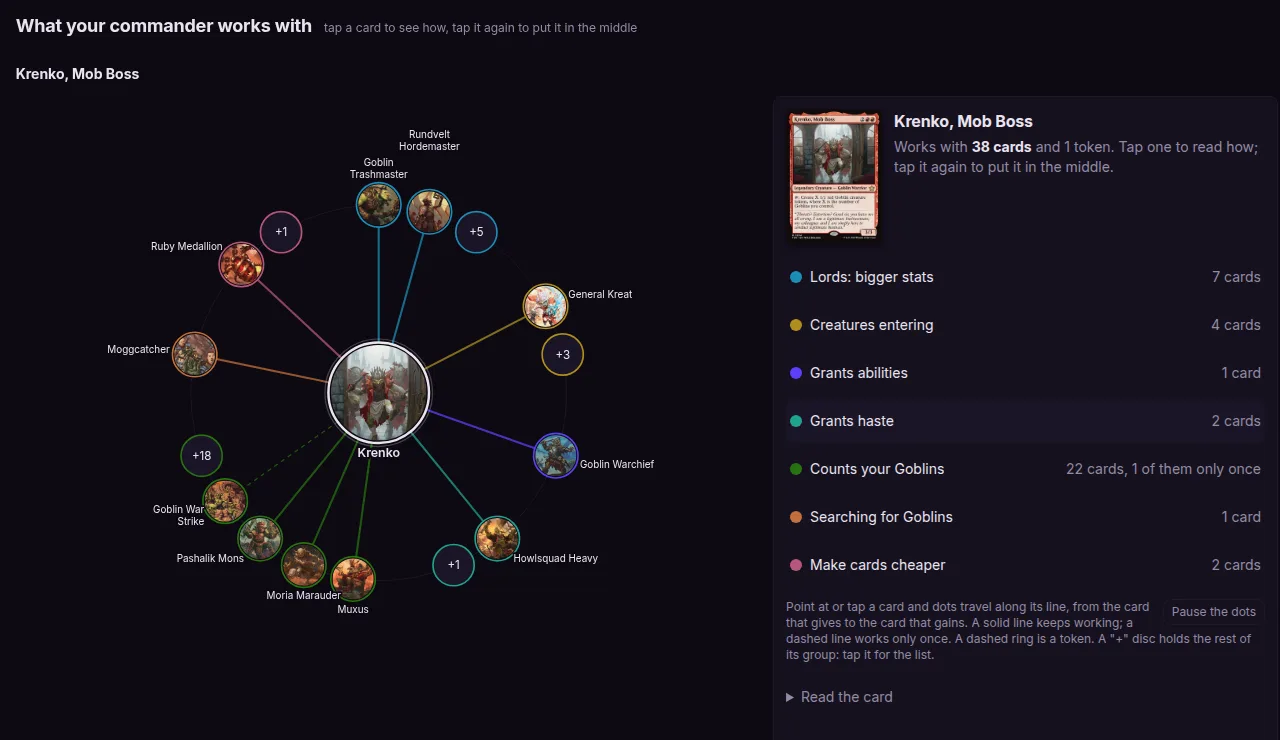
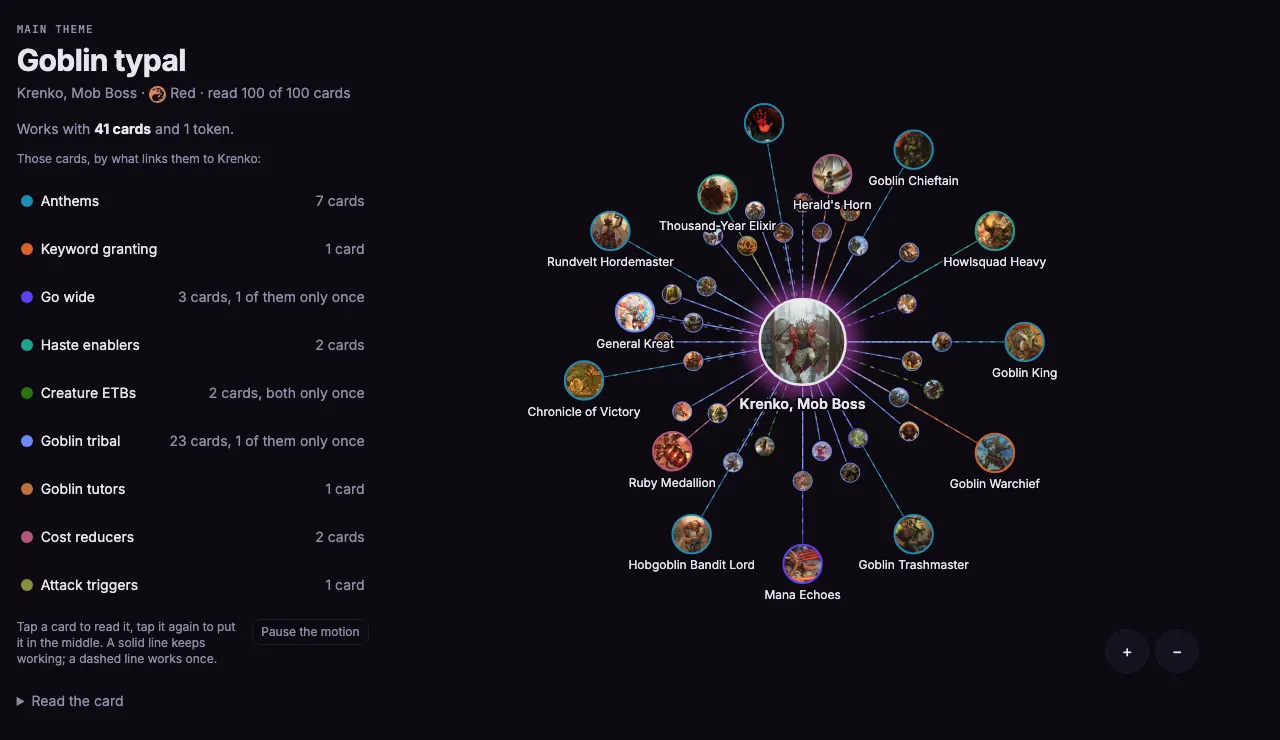
Presentation: current screenshots and demo, the pages beyond the report, a flow diagram
The README and /how-it-works showed the report as it was before the game plan was folded into rows
and the manabase into five answers, and nothing of the commander, card or precon pages.

- The capture script was broken by those two changes (the game plan wait timed out; the mana chart
  now sits behind "Show the numbers", so its frame caught the sticky header instead). Fixed, and
  all four report frames regenerated: the game plan opens its biggest theme, the mana frame is the
  chapter's five answers.
- Two new frames from the same script: Krenko's commander page and the Multiverse Reforged precon
  page. /how-it-works gets a "Beyond your deck" section for them; the README a "No deck handy?"
  section with both.
- demo.gif re-recorded (its "Put Goblin Warchief in the middle" button no longer exists; a tap now
  opens the card drawer, which the demo shows instead). A second GIF, browse.gif, from the same
  script with `--story browse`: the precon index, one precon's swaps, the site search, a commander
  page. 2.7 MB and 3.1 MB, both under the test's 5 MB budget, which now covers both.
- /how-it-works: report frames one per row at their capture width (65rem = 1040px) instead of three
  to a row, where their text was unreadable; the pipeline draws arrows between its six steps where
  all six fit in one row (64rem and up), keeping the numbered grid below that, which was the
  recorded reason for numbers over chevrons.
[…]

diff --git a/packages/web/client/how-it-works/index.html b/packages/web/client/how-it-works/index.html
@@ -208,28 +208,47 @@
            wide. A change that alters one of these frames regenerates them in the same PR
            (CONTRIBUTING.md, "Screenshots"); `screenshots.test.ts` holds the sizes below to the files.
            Relative `src` so Vite content-hashes them into `/assets/`, where `_headers` already
-           caches for a year; `README.md` shows the same four files, so there is one copy of each.
+           caches for a year; `README.md` shows the same files, so there is one copy of each.
            Width and height are set so the page does not shift as they arrive. -->
       <div class="shots">
-        <figure class="shot shot-hero">
+        <figure class="shot">
           <img src="./shot-orbit.webp" width="1280" height="740" loading="lazy" decoding="async"
                alt="What Krenko, Mob Boss works with: Krenko in the middle and the Goblins around him, grouped by what each link is, beside a list of the groups." />
           <figcaption><strong>What your commander works with.</strong> Every card around it, grouped by what the link is. Tap one to see how, or put any card in the middle.</figcaption>
         </figure>
         <figure class="shot">
-          <img src="./shot-pairs.webp" width="1040" height="640" loading="lazy" decoding="async"
-               alt="The game plan chapter: what the deck does, led by its biggest theme, Lords giving bigger stats, with its seven key cards and the Goblins that set them off." />
-          <figcaption><strong>Your game plan.</strong> What your deck does, each theme led by the cards that make it work.</figcaption>
+          <img src="./shot-pairs.webp" width="1040" height="356" loading="lazy" decoding="async"
+               alt="The game plan chapter: what the deck does, one row per theme. Anthems, 32 cards, is open on its key cards, one example link, and the themes made of the same cards." />
+          <figcaption><strong>Your game plan.</strong> What your deck does, one row per theme, each opening on the cards that make it work.</figcaption>
         </figure>
         <figure class="shot">
           <img src="./shot-improve.webp" width="1040" height="640" loading="lazy" decoding="async"
-               alt="The suggestions chapter: short on card draw, 9 against a target of 13, with four cards that fit shown as card images, each saying what it counts as and how it works with the deck." />
+               alt="The suggestions chapter: you will run out of cards before you run out of turns, 10 against a target of 13, with three cards that fit shown as card images, each saying what it counts as and how it works with the deck." />
           <figcaption><strong>What to fix first.</strong> Gaps stated in cards, biggest payoff at the top, with the cards that fit.</figcaption>
         </figure>
         <figure class="shot">
-          <img src="./shot-mana.webp" width="640" height="394" loading="lazy" decoding="async"
-               alt="The manabase chart: mana by turn in a typical game, and how many cards first become castable on each turn." />
-          <figcaption><strong>Can you cast it.</strong> Mana by turn, and the turn most of your cards become castable.</figcaption>
+          <img src="./shot-mana.webp" width="1296" height="240" loading="lazy" decoding="async"
+               alt="The manabase chapter's five answers: lands, the weakest colour, opening hands, mana by turn 6, and the hardest card to cast on curve." />
+          <figcaption><strong>Can you cast it.</strong> Five answers first: lands, colours, opening hands, mana by turn, and the card you will struggle to cast. The numbers behind them fold away.</figcaption>
+        </figure>
+      </div>
+
+      <h2>Beyond your deck</h2>
+      <p>
+        No deck handy? Every commander and every card has a page that shows what works with it, ranked
+        over every card a deck could legally hold. Every Commander precon has one too: its theme, how
+        well its cards work together, and the swaps that make them work together more.
+      </p>
+      <div class="shots shots-pair">
+        <figure class="shot">
+          <img src="./shot-commander.webp" width="1408" height="1290" loading="lazy" decoding="async"
+               alt="The commander page for Krenko, Mob Boss: the card, how the engine reads it, what it cares about, and a map of the cards that work well with it." />
+          <figcaption><strong>A page per commander.</strong> What it cares about, and the cards that work with it, on a map and in a list. <a href="https://edhseer.cards/commanders/krenko-mob-boss">Krenko's</a>.</figcaption>
+        </figure>
+        <figure class="shot">
+          <img src="./shot-precon.webp" width="1408" height="900" loading="lazy" decoding="async"
+               alt="The precon page for Multiverse Reforged: its theme, synergy and bracket, a map of what Jace works with, and the swaps that make the deck work together, each card out beside the card in." />
+          <figcaption><strong>A page per precon.</strong> Its theme, synergy and bracket, and the swaps that give its loosest cards a job. <a href="https://edhseer.cards/precons/">Every precon</a>.</figcaption>
         </figure>
       </div>
 

diff --git a/packages/web/client/src/index.css b/packages/web/client/src/index.css
@@ -1413,6 +1413,25 @@ a.brand:hover .brand-edh { color: var(--foreground); }
 
 .pipeline-note { font-size: 0.75rem; line-height: 1.35; color: var(--muted); }
 
+/* ONE ROW, AND THEN THE ARROWS (2026-09-28). Where all six boxes fit in a single row there is no
+   wrapped row to leave a stray mark at, which was the whole case against chevrons above -- so at
+   that width the flow is drawn as a flow, and the numbers stay for every narrower layout. The
+   chevron sits in the gap, drawn by the box on its right. */
+@media (min-width: 64rem) {
+  .pipeline { grid-template-columns: repeat(6, 1fr); gap: 1.5rem; }
+  .pipeline li + li::before {
+    content: "";
+    position: absolute;
+    left: -1.1rem;
+    top: 50%;
+    width: 0.5rem;
+    height: 0.5rem;
+    border-top: 1.5px solid var(--muted);
+    border-right: 1.5px solid var(--muted);
+    transform: translateY(-50%) rotate(45deg);
+  }
+}
+
 /* THE MONEY LINE. One step costs and the rest are free, which is the whole reason the engine can be
    corrected without buying the corpus again. */
 .pipeline-paid { border-color: var(--accent); }
@@ -1537,17 +1556,20 @@ a.brand:hover .brand-edh { color: var(--foreground); }
 }
 .hiw-try p:first-child { color: var(--foreground); }
 
-/* REAL SCREENSHOTS OF THE REPORT. The commander orbit leads full width; the three chapters sit under it in a
-   row on a wide screen and stack on a phone, where a 1440 frame at a third of 390px would be a
-   thumbnail nobody can read. */
+/* REAL SCREENSHOTS OF THE PRODUCT, ONE PER ROW. The row is 65rem, which is 1040px, the width the
+   report's chapter frames are captured at: shown whole they are read at their own size, and two to a
+   row halved them into thumbnails whose text nobody could read. `.shots-pair` is the exception --
+   the pages beyond the report, shown side by side as a preview of the look, each linking to the
+   real page. On a phone everything stacks. */
 .shots {
   display: grid;
-  grid-template-columns: repeat(3, 1fr);
-  gap: 1.25rem 1rem;
+  grid-template-columns: minmax(0, 1fr);
+  align-items: start;
+  gap: 1.75rem 1rem;
   margin-block: 1.5rem 0.5rem;
 }
+.shots-pair { grid-template-columns: repeat(2, minmax(0, 1fr)); }
 .shot { margin: 0; min-width: 0; }
-.shot-hero { grid-column: 1 / -1; }
 .shot img {
   display: block;
   width: 100%;

diff --git a/packages/web/client/src/screenshots.test.ts b/packages/web/client/src/screenshots.test.ts
@@ -7,7 +7,7 @@ const WEB = join(import.meta.dirname, "..", "..");
 
 /** THE PRODUCT SCREENSHOTS ARE REPRODUCIBLE, OR THEY FAIL HERE (docs refresh, 2026-09-25).
  *
- *  The README and /how-it-works show four frames of the real report, and the rule is that a change
+ *  The README and /how-it-works show six frames of the real product, and the rule is that a change
  *  which alters one of them re-runs `npm run screenshots -w @edh-seer/web` in the same PR
  *  (CONTRIBUTING.md, "Screenshots"). No test can see whether a frame is out of date -- that is on
  *  review, and on the PR checklist. What a test CAN hold is everything that makes re-running it a
@@ -68,13 +68,13 @@ test("each screenshot's declared size is its real size", () => {
  *  so it has to exist, come from `demo-gif.mts` like the frames do, and stay under a budget: GitHub
  *  stops rendering images past 10 MB, and a reader on a phone should not wait for most of that.
  *  The first recording was 2.8 MB at 880 px wide. */
-test("the README's demo is the scripted GIF, and under budget", () => {
-  const gif = join(WEB, "..", "..", "docs", "images", "demo.gif");
-  expect(readme).toContain('src="docs/images/demo.gif"');
+test.each(["demo.gif", "browse.gif"])("the README's %s is scripted, and under budget", (name) => {
+  const gif = join(WEB, "..", "..", "docs", "images", name);
+  expect(readme).toContain(`src="docs/images/${name}"`);
   expect(existsSync(gif)).toBe(true);
   const bytes = readFileSync(gif);
   expect(bytes.toString("ascii", 0, 6)).toBe("GIF89a");
   expect(bytes.length).toBeLessThan(5 * 1024 * 1024);
   const demo = readFileSync(join(WEB, "scripts", "demo-gif.mts"), "utf8");
-  expect(demo).toContain('"docs", "images", "demo.gif"');
+  expect(demo).toContain(`"docs", "images", "${name}"`);
 });

diff --git a/README.md b/README.md
@@ -26,7 +26,7 @@ that says why.** Free, no account, nothing stored. Paste a list, or a Moxfield o
 **[edhseer.cards](https://edhseer.cards)**.
 
 <p align="center">
-  <a href="https://edhseer.cards"><img src="docs/images/demo.gif" width="880" alt="A Krenko, Mob Boss decklist is pasted and analysed. The report scrolls to what Krenko works with: a ring of Goblins around him. Goblin Warchief is tapped, its links read, and it is put in the middle. Then the deck's themes, led by their key cards, and the suggestions."></a>
+  <a href="https://edhseer.cards"><img src="docs/images/demo.gif" width="880" alt="A Krenko, Mob Boss decklist is pasted and analysed. The report scrolls to what Krenko works with: a ring of Goblins around him. Goblin Warchief is tapped and opens in a drawer with its text and what it works with. Then the deck's biggest theme is opened on its key cards, and the suggestions."></a>
 </p>
 
 ## What you get
@@ -50,19 +50,36 @@ that says why.** Free, no account, nothing stored. Paste a list, or a Moxfield o
 - **Bracket, roles and combos.** Where the deck sits, what each card is doing, and the combos it
   already holds, from [Commander Spellbook](https://commanderspellbook.com/).
 
-| What your commander works with | What your deck does |
-|---|---|
-| ![Krenko, Mob Boss in the middle and the Goblins around him, grouped by what each link is](packages/web/client/how-it-works/shot-orbit.webp) | ![The game plan chapter: the deck's biggest theme, led by its key cards](packages/web/client/how-it-works/shot-pairs.webp) |
-| **What to fix, biggest payoff first** | **Can you cast your cards** |
-| ![The suggestions chapter: short on card draw, with four cards that fit shown as card images](packages/web/client/how-it-works/shot-improve.webp) | ![The manabase chart: mana by turn in a typical game, and how many cards become castable on each turn](packages/web/client/how-it-works/shot-mana.webp) |
+<p align="center"><img src="packages/web/client/how-it-works/shot-orbit.webp" width="880" alt="What Krenko, Mob Boss works with: Krenko in the middle and the Goblins around him, grouped by what each link is, beside a list of the groups"></p>
 
-No deck handy? Every card and every commander has a page of its own that shows what works with it:
+| What your deck does | What to fix, biggest payoff first |
+|---|---|
+| ![The game plan chapter: one row per theme, the biggest opened on its key cards](packages/web/client/how-it-works/shot-pairs.webp) | ![The suggestions chapter: short on card draw, with three cards that fit shown as card images](packages/web/client/how-it-works/shot-improve.webp) |
+
+<p align="center"><img src="packages/web/client/how-it-works/shot-mana.webp" width="880" alt="The manabase chapter's five answers: lands, the weakest colour, opening hands, mana by turn 6, and the hardest card to cast on curve"></p>
+
+### No deck handy?
+
+Every commander, every card and every Commander precon has a page of its own. A precon's page says
+how well its cards work together and which swaps make them work together more; a commander's shows
+what works with it, over every card a deck it leads could legally hold.
+
+<p align="center">
+  <a href="https://edhseer.cards/precons/"><img src="docs/images/browse.gif" width="880" alt="The precons page. Multiverse Reforged is opened: its theme, synergy and bracket, a map of what Jace works with, and four swaps, each card out beside the card in. Then the site search finds Krenko, Mob Boss, and his commander page shows the cards that work with him on a map."></a>
+</p>
+
+| A page per commander | A page per precon |
+|---|---|
+| ![The commander page for Krenko, Mob Boss: the card, how the engine reads it, and a map of the cards that work well with it](packages/web/client/how-it-works/shot-commander.webp) | ![The precon page for Multiverse Reforged: theme, synergy and bracket, a map of what Jace works with, and the swaps that make the deck work together](packages/web/client/how-it-works/shot-precon.webp) |
+
+Start anywhere:
 [Skullclamp](https://edhseer.cards/cards/skullclamp) ·
 [Krenko, Mob Boss](https://edhseer.cards/commanders/krenko-mob-boss) ·
 [Atraxa, Praetors' Voice](https://edhseer.cards/commanders/atraxa-praetors-voice) ·
 [Inalla, Archmage Ritualist](https://edhseer.cards/commanders/inalla-archmage-ritualist) ·
 [Edgar Markov](https://edhseer.cards/commanders/edgar-markov) ·
 [Yuna, Grand Summoner](https://edhseer.cards/commanders/yuna-grand-summoner) ·
+[every precon](https://edhseer.cards/precons/) ·
 or [browse every commander](https://edhseer.cards/commanders).
 
 ## Why you can trust it
@@ -101,23 +118,25 @@ Krenko makes Goblin tokens enter, Impact Tremors cares about creatures entering,
 Farseek puts a land onto the battlefield, Enduring Courage cares about a creature entering, so they
 do not.
 
-```
-Scryfall / MTGJSON  ──►  oracle text
-                            │
-                            ▼  (a model, once per card, offline)
-                         clauses          ──  structured sentences
-                            │
-                            ▼  (pure functions, free)
-                      derived tags        ──  what each card causes, what it cares about
-                            │
-                            ▼  (pure functions, free)
-                        pairings          ──  "X causes the event Y cares about"
-                            │
-                            ▼
-                       deck report
+```mermaid
+flowchart LR
+  subgraph offline ["Once per card, offline"]
+    A["Oracle<br/>text"] --> B["Segment"]
+    B --> C["Normalize<br/>a model<br/>(paid)"]
+    C --> D["Derive<br/>causes and<br/>cares about"]
+  end
+  subgraph browser ["In your browser"]
+    E["Your<br/>deck"] --> F["Match"]
+    F --> G["Report"]
+  end
+  D --> F
+
+  style C fill:#7c2d12,color:#fff
+  style D fill:#14532d,color:#fff
+  style F fill:#1e3a8a,color:#fff
 ```
 
-Only the first arrow costs money, and the project pays it once per card. The rest re-runs for
+Only the red step costs money, and the project pays it once per card. The rest re-runs for
 free, which is why a wrong claim can be fixed and re-measured the same day.
 
 The full story, for players and for engineers, is at

diff --git a/CONTRIBUTING.md b/CONTRIBUTING.md
@@ -130,9 +130,11 @@ a real regression gets excused.
 
 ## Screenshots
 
-The README and [edhseer.cards/how-it-works](https://edhseer.cards/how-it-works) show four frames of
-a real report (the graph, the game plan, the suggestions and the mana chart), and the README opens on
-a demo GIF of the whole flow: paste, analyse, read, open the graph. They are the first
+The README and [edhseer.cards/how-it-works](https://edhseer.cards/how-it-works) show six frames of
+the real product: four of a report (the commander's map, the game plan, the suggestions and the
+manabase) and two of the pages beyond it (a commander page and a precon page). The README opens on a
+demo GIF of the whole flow (paste, analyse, read a card, open a theme, the fixes) and carries a
+second of the pages beyond the report (a precon's swaps, the site search, a commander page). They are the first
 picture of the product most people see, and a picture of last month's UI is a claim that is no
 longer true.
 
@@ -140,14 +142,15 @@ longer true.
 
 ```bash
 npm run build:client -w @edh-seer/web
-npx vite preview --config packages/web/client/vite.config.ts --port 5180 &
-npm run screenshots -w @edh-seer/web     # the four frames
+(cd packages/web && npx vite preview --config client/vite.config.ts --port 5180) &   # from packages/web: the config's root is "client"
+npm run screenshots -w @edh-seer/web     # the six frames
 npm run demo-gif -w @edh-seer/web        # docs/images/demo.gif; --frames <dir> saves each frame to review
+npm run demo-gif -w @edh-seer/web -- --story browse   # docs/images/browse.gif
 ```
 
 The script (`packages/web/scripts/docs-screenshots.mts`) analyses a fixed Krenko list, crops each
 frame from its own heading, and writes the `.webp` files that both pages use. Your UI and
-production's card data, so no corpus is needed. Look at the four files before you commit them.
+production's card data, so no corpus is needed. Look at the six files before you commit them.
 
 The README banner and the GitHub social preview (`docs/images/`) are drawn by
 `npx tsx packages/web/scripts/brand-images.mts` in the site's own fonts and colours. They change only

diff --git a/.github/PULL_REQUEST_TEMPLATE.md b/.github/PULL_REQUEST_TEMPLATE.md
@@ -26,4 +26,4 @@
 - [ ] `npm run lint:bins` passes, if a script was added or moved
 - [ ] `npm run tokens:check` passes, if `tokens/` or UI CSS changed
 - [ ] `docs/reference/SCHEMA.md` regenerated, if the schema or a vocabulary changed
-- [ ] Screenshots and demo regenerated (`npm run screenshots -w @edh-seer/web`, `npm run demo-gif -w @edh-seer/web`), if the paste box, report, graph or mana chart look different
+- [ ] Screenshots and demos regenerated (`npm run screenshots -w @edh-seer/web`, `npm run demo-gif -w @edh-seer/web`, `-- --story browse`), if the paste box, report, map, manabase, commander or precon pages look different
